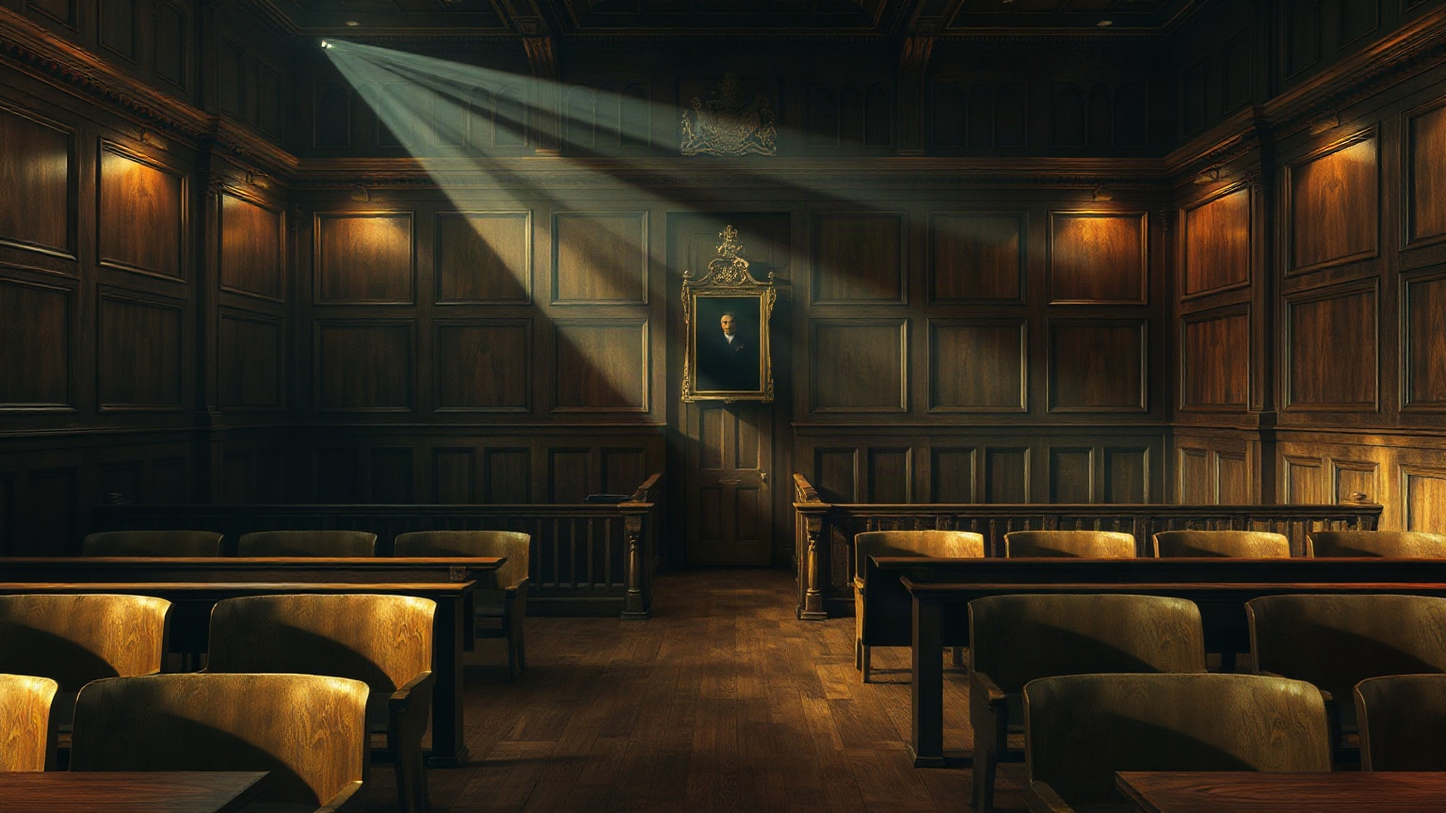
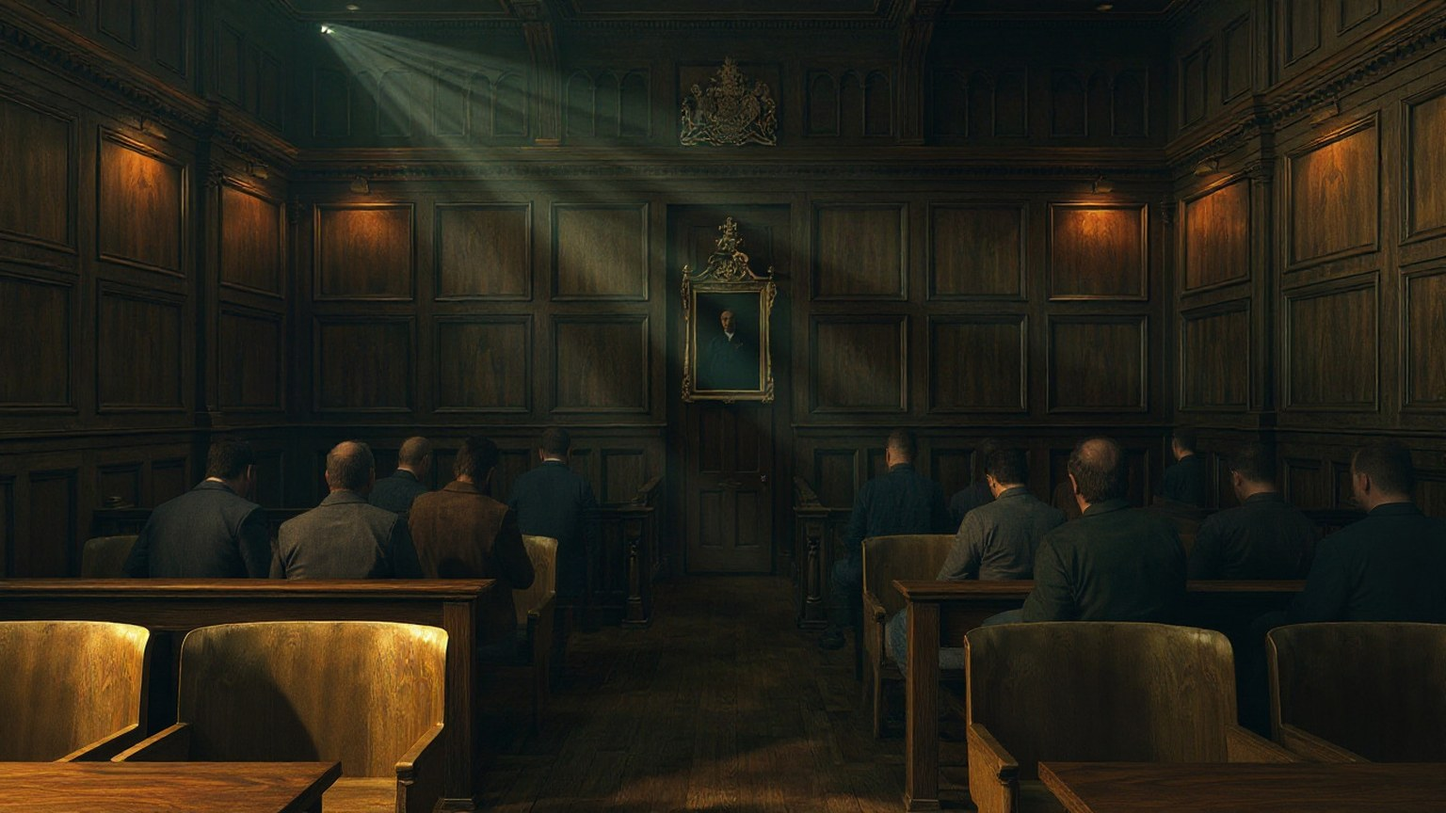
Playtest: courtroom scenes with background people, evidence pictures, multi-evidence presenting, reopenable lessons tab, apply-fix buttons

diff --git a/learn/index.html b/learn/index.html
@@ -4071,6 +4071,9 @@
     .create-issue .badge { display: inline-block; margin-right: 8px; padding: 2px 8px; border-radius: 99px; font: 800 0.65rem Arial, sans-serif; letter-spacing: 0.06em; text-transform: uppercase; border: 1px solid currentColor; }
     .create-issue .badge.blocker { background: var(--text); color: var(--panel); }
     .create-issue .fix { display: block; margin-top: 6px; opacity: 0.75; }
+    .create-issue .create-apply { margin-top: 10px; display: block; }
+    .create-issue .applied { display: block; margin-top: 8px; font: 700 0.75rem Arial, sans-serif; color: #b7e0a3; }
+    .create-apply-note { margin: 8px 0 0; font: 0.82rem Arial, sans-serif; opacity: 0.8; }
     .create-play { padding: 18px 60px; border: 2px solid var(--accent); border-radius: 14px; background: var(--text); color: var(--panel); font: 800 1.3rem Georgia, serif; cursor: pointer; box-shadow: 0 10px 28px rgba(0,0,0,0.3); }
     @media (max-width: 1100px) { .create-case-layout { grid-template-columns: 150px minmax(0, 1fr); } .create-coverage { grid-column: 1 / -1; position: static; } }
     @media (max-width: 720px) { .create-case-layout { grid-template-columns: 1fr; } .create-case-nav { position: static; flex-direction: row; overflow-x: auto; } .create-detail-panel, .create-edit-grid2 { grid-template-columns: 1fr; } .create-edit-row { grid-template-columns: 1fr 30px; } .create-edit-row input:first-child { grid-column: 1 / -1; } }
@@ -4146,6 +4149,11 @@
     .pl-ev-grid { display: grid; grid-template-columns: repeat(auto-fill, minmax(190px, 1fr)); gap: 14px; }
     .pl-ev-card { display: flex; flex-direction: column; gap: 6px; padding: 14px; border: 1px solid rgba(230,215,176,0.3); border-radius: 12px; background: rgba(230,215,176,0.06); color: inherit; text-align: left; cursor: pointer; font: inherit; }
     .pl-ev-card:hover { background: rgba(230,215,176,0.14); transform: translateY(-2px); }
+    .pl-ev-card.picked { border-color: var(--text, #E6D7B0); background: rgba(230,215,176,0.22); box-shadow: 0 0 0 2px var(--accent, #E6D7B0); }
+    .pl-ev-wrap { position: relative; display: flex; }
+    .pl-ev-wrap .pl-ev-card { flex: 1; }
+    .pl-ev-inspect { position: absolute; top: 8px; right: 8px; padding: 4px 9px; border: 1px solid rgba(230,215,176,0.4); border-radius: 999px; background: rgba(5,5,10,0.7); color: inherit; font: 700 0.62rem Arial, sans-serif; letter-spacing: 0.06em; text-transform: uppercase; cursor: pointer; }
+    .pl-ev-thumb { width: 100%; aspect-ratio: 4 / 3; object-fit: cover; border-radius: 8px; margin-bottom: 4px; }
     .pl-ev-card .k { font: 700 0.62rem Arial, sans-serif; letter-spacing: 0.14em; text-transform: uppercase; opacity: 0.6; }
     .pl-ev-card .t { font: 700 0.95rem/1.3 Georgia, serif; }
     .pl-ev-card .c { font: 0.78rem/1.4 Arial, sans-serif; opacity: 0.7; }
@@ -4178,6 +4186,14 @@
     .pl-cctv .top { position: absolute; top: 10px; left: 14px; right: 14px; display: flex; justify-content: space-between; font-size: 0.78rem; letter-spacing: 0.06em; }
     .pl-cctv .rec::before { content: '● '; color: #e04a3a; }
     .pl-cctv .desc { position: absolute; left: 14px; right: 14px; bottom: 12px; padding: 8px 10px; background: rgba(0,0,0,0.55); font-size: 0.8rem; line-height: 1.45; }
+    .pl-cctv-wrap { width: min(620px, 100%); }
+    .pl-cctv.has-img { background: #0c0e0b; }
+    .pl-cctv-img { position: absolute; inset: 0; width: 100%; height: 100%; object-fit: cover; filter: grayscale(1) contrast(1.1) brightness(0.9); }
+    .pl-cctv.has-img::before { z-index: 1; }
+    .pl-cctv.has-img .top { z-index: 2; text-shadow: 0 1px 4px #000; }
+    .pl-cctv-cap { margin: 10px 2px 0; font: 0.85rem/1.55 Arial, sans-serif; opacity: 0.75; }
+    .pl-photo-desc { margin: 8px 4px 0; font: 0.78rem/1.5 Arial, sans-serif; color: #4a4232; text-align: center; }
+    .pl-bag-img { display: block; width: 100%; aspect-ratio: 4 / 3; object-fit: cover; border-radius: 4px; margin-bottom: 12px; }
     .pl-medical { width: min(560px, 100%); padding: 26px 30px; background: #eef2f4; color: #17232b; border-radius: 3px; border-top: 8px solid #2a7f9e; box-shadow: 0 10px 40px rgba(0,0,0,0.55); font: 0.9rem/1.6 Arial, sans-serif; }
     .pl-medical h3 { margin: 0 0 12px; font: 700 1.05rem Arial, sans-serif; color: #2a7f9e; }
     .pl-polaroid { width: min(430px, 100%); padding: 14px 14px 24px; background: #f6f2ea; border-radius: 3px; transform: rotate(-1.4deg); box-shadow: 0 10px 40px rgba(0,0,0,0.6); color: #23201a; }
@@ -4219,6 +4235,8 @@
     /* Legal guidance: the LastMind lesson for a concept the case calls on, beside the scene (closable) */
     .pl-guidance { position: absolute; top: 0; right: 0; bottom: 0; z-index: 15; width: min(480px, 94vw); overflow: auto; padding: 22px 24px 40px; border-left: 1px solid rgba(230,215,176,0.35); background: rgba(var(--panel-rgb, 18, 18, 30), 0.97); box-shadow: -24px 0 70px rgba(0,0,0,0.55); animation: plSlideIn 0.35s ease both; }
     @keyframes plSlideIn { from { transform: translateX(30px); opacity: 0; } to { transform: none; opacity: 1; } }
+    .pl-guid-edge { position: absolute; right: 0; top: 42%; z-index: 14; padding: 16px 9px; writing-mode: vertical-rl; border: 1px solid rgba(230,215,176,0.5); border-right: 0; border-radius: 12px 0 0 12px; background: rgba(var(--panel-rgb, 18, 18, 30), 0.92); color: var(--text, #E6D7B0); font: 700 0.78rem Arial, sans-serif; letter-spacing: 0.12em; text-transform: uppercase; cursor: pointer; box-shadow: -6px 0 24px rgba(0,0,0,0.4); }
+    .pl-guid-edge:hover { background: rgba(230,215,176,0.22); }
     .pl-guid-head { display: flex; align-items: flex-start; justify-content: space-between; gap: 12px; margin-bottom: 14px; }
     .pl-guid-sub { margin-top: 4px; font: 0.8rem Arial, sans-serif; opacity: 0.6; }
     .pl-guid-tabs { display: flex; flex-wrap: wrap; gap: 8px; margin-bottom: 16px; }
@@ -9577,10 +9595,10 @@ SQIDAQAB
         if (createBuild) { renderCreateBuilding(body, trial, goTo, contentInner); return; }
         const detailsHtml = trial.showDetails ? `
             <div class="create-detail-panel">
-                ${CREATE_DETAIL_FIELDS.map((f) => `<div class="create-detail-field"><label for="createDetail-${f.key}">${f.label}</label><textarea id="createDetail-${f.key}" data-detail="${f.key}" rows="3" placeholder="${escapeHtml(f.placeholder)}">${escapeHtml(trial.details[f.key] || '')}</textarea></div>`).join('')}
+                ${CREATE_DETAIL_FIELDS.map((f) => `<div class="create-detail-field"><label for="createDetail-${f.key}">${f.label}</label><textarea id="createDetail-${f.key}" data-detail="${f.key}" rows="3" placeholder="${escapeHtml(trial.cortexDecides ? 'Cortex will choose this' : f.placeholder)}">${escapeHtml(trial.details[f.key] || '')}</textarea></div>`).join('')}
                 <div class="create-detail-actions">
-                    <button type="button" class="create-secondary" id="createCortexHandles">Let Cortex handle it</button>
-                    <span class="create-warn" style="margin:0;">Leave any box empty and Cortex will choose for you.</span>
+                    <button type="button" class="create-secondary" id="createCortexHandles" aria-pressed="${!!trial.cortexDecides}">${trial.cortexDecides ? '✓ Cortex will fill in anything left empty' : 'Let Cortex handle the rest'}</button>
+                    <span class="create-warn" style="margin:0;">${trial.cortexDecides ? 'Boxes you have filled in are kept exactly as written; Cortex only fills in the empty ones.' : 'Leave any box empty and Cortex will choose for you.'}</span>
                 </div>
             </div>` : '';
         body.innerHTML = `
@@ -9589,17 +9607,17 @@ SQIDAQAB
             <textarea class="create-idea" id="createIdea" rows="5" placeholder="${escapeHtml(CREATE_IDEA_PLACEHOLDER)}" aria-label="What's your idea?">${escapeHtml(trial.idea || '')}</textarea>
             <div class="create-detail-row">
                 <button type="button" class="create-secondary" id="createMoreDetail">${trial.showDetails ? '− Hide detail' : '+ Add more detail'}</button>
-                ${trial.cortexDecides ? '<span class="create-chip">Cortex will decide the details <button type="button" id="createUndoCortex">change</button></span>' : ''}
+                ${trial.cortexDecides && !trial.showDetails ? '<span class="create-chip">Cortex will fill in anything you leave empty <button type="button" id="createUndoCortex">change</button></span>' : ''}
             </div>
             ${detailsHtml}
             <div class="create-build-row"><button type="button" class="create-build-btn" id="createBuildBtn">Build my Case</button></div>
             <div id="createBuildWarn"></div>`;
         const idea = body.querySelector('#createIdea');
         idea.addEventListener('input', () => { trial.idea = idea.value; saveCreateTrial(); });
-        body.querySelector('#createMoreDetail').addEventListener('click', () => { trial.showDetails = !trial.showDetails; if (trial.showDetails) trial.cortexDecides = false; saveCreateTrial(); renderCreateDesign(body, trial, goTo, contentInner); });
+        body.querySelector('#createMoreDetail').addEventListener('click', () => { trial.showDetails = !trial.showDetails; saveCreateTrial(); renderCreateDesign(body, trial, goTo, contentInner); });
         body.querySelector('#createUndoCortex')?.addEventListener('click', () => { trial.cortexDecides = false; trial.showDetails = true; saveCreateTrial(); renderCreateDesign(body, trial, goTo, contentInner); });
         body.querySelectorAll('[data-detail]').forEach((el) => el.addEventListener('input', () => { trial.details[el.dataset.detail] = el.value; saveCreateTrial(); }));
-        body.querySelector('#createCortexHandles')?.addEventListener('click', () => { trial.cortexDecides = true; trial.showDetails = false; trial.details = {}; saveCreateTrial(); renderCreateDesign(body, trial, goTo, contentInner); });
+        body.querySelector('#createCortexHandles')?.addEventListener('click', () => { trial.cortexDecides = !trial.cortexDecides; trial.showDetails = true; saveCreateTrial(); renderCreateDesign(body, trial, goTo, contentInner); });
         body.querySelector('#createBuildBtn').addEventListener('click', () => {
             const warn = body.querySelector('#createBuildWarn');
             const missing = [];
@@ -9822,7 +9840,7 @@ SQIDAQAB
     }
 
     function startCreateValidation(body, trial) {
-        const state = { status: 'running', startedAt: Date.now(), shown: 1, completed: 0 };
+        const state = { status: 'running', startedAt: Date.now(), shown: 1, completed: 0, applied: new Set(), changes: [], stale: false };
         createValidation = state;
         const payload = { case: trial.case, role: trial.role, minutes: trial.minutes, concepts: trial.picked.map((n) => ({ label: n.label, subtopic: n.subtopic })) };
         createRunJob('/create/criminal-trial/validate', payload).then((result) => {
@@ -9871,9 +9889,35 @@ SQIDAQAB
             if (coverageEl && trial.case) coverageEl.innerHTML = createCoverageHtml(trial.case.coverage);
             tail.innerHTML = `
                 ${r.summary ? `<p class="create-error" style="max-width:none;">${escapeHtml(r.summary)}</p>` : ''}
-                ${(r.issues || []).map((i) => `<div class="create-issue"><span class="badge ${i.severity}">${i.severity === 'blocker' ? 'Must fix' : 'Suggestion'}</span><b>${escapeHtml(i.area)}</b> - ${escapeHtml(i.message)}${i.suggestion ? `<span class="fix">${escapeHtml(i.suggestion)}</span>` : ''}</div>`).join('')}
-                ${r.workable ? '<div class="create-ready-actions" style="margin-top:18px;"><button type="button" class="create-play" id="createPlayBtn">Play</button></div>' : '<p class="create-error" style="max-width:none;">Fix the items marked "Must fix", then press Validate again.</p>'}`;
+                ${(r.issues || []).map((i, idx) => `<div class="create-issue"><span class="badge ${i.severity}">${i.severity === 'blocker' ? 'Must fix' : 'Suggestion'}</span><b>${escapeHtml(i.area)}</b> - ${escapeHtml(i.message)}${i.suggestion ? `<span class="fix">${escapeHtml(i.suggestion)}</span>` : ''}${state.applied.has(idx) ? '<span class="applied">✓ Applied</span>' : `<button type="button" class="create-secondary create-apply" data-apply="${idx}">Apply this fix</button>`}</div>`).join('')}
+                ${(r.issues || []).filter((i, idx) => !state.applied.has(idx)).length > 1 ? '<div class="create-ready-actions" style="margin:6px 0 4px;"><button type="button" class="create-cta" id="createApplyAll" style="padding:10px 22px;font-size:0.9rem;">Apply all fixes</button></div>' : ''}
+                ${state.changes.length ? `<div class="create-issue"><b>Changes made</b><ul style="margin:6px 0 0 18px;padding:0;">${state.changes.map((c) => `<li>${escapeHtml(c)}</li>`).join('')}</ul></div>` : ''}
+                <p class="create-apply-note" id="createApplyNote"></p>
+                ${state.stale ? '<p class="create-error" style="max-width:none;">You have changed the case with these fixes, so press Validate again to make sure it now works before you play.</p>' : (r.workable ? '<div class="create-ready-actions" style="margin-top:18px;"><button type="button" class="create-play" id="createPlayBtn">Play</button></div>' : '<p class="create-error" style="max-width:none;">Fix the items marked "Must fix", then press Validate again.</p>')}`;
             tail.querySelector('#createPlayBtn')?.addEventListener('click', () => ptStart(trial));
+            const applyFixes = async (indexes) => {
+                const note = tail.querySelector('#createApplyNote');
+                tail.querySelectorAll('.create-apply, #createApplyAll').forEach((b) => { b.disabled = true; });
+                note.textContent = 'Cortex is applying the fix…';
+                try {
+                    const result = await createRunJob('/create/criminal-trial/apply-fixes', {
+                        case: trial.case, role: trial.role, minutes: trial.minutes,
+                        concepts: trial.picked.map((n) => ({ label: n.label, subtopic: n.subtopic })),
+                        issues: indexes.map((i) => r.issues[i]),
+                    });
+                    Object.entries(result.sections || {}).forEach(([key, value]) => { trial.case[key] = value; });
+                    indexes.forEach((i) => state.applied.add(i));
+                    (result.changes || []).forEach((c) => state.changes.push(c));
+                    state.stale = true;
+                    saveCreateTrial();
+                    renderCreateTrialBuilder(document.getElementById('contentInner'));
+                } catch (err) {
+                    note.textContent = err.message || 'Cortex could not apply that fix.';
+                    tail.querySelectorAll('.create-apply, #createApplyAll').forEach((b) => { b.disabled = false; });
+                }
+            };
+            tail.querySelectorAll('[data-apply]').forEach((b) => b.addEventListener('click', () => applyFixes([Number(b.dataset.apply)])));
+            tail.querySelector('#createApplyAll')?.addEventListener('click', () => applyFixes((r.issues || []).map((i, idx) => idx).filter((idx) => !state.applied.has(idx))));
         };
         paint();
         const timer = setInterval(() => {
@@ -10041,6 +10085,7 @@ SQIDAQAB
     const PT_SCENE = (key) => `/assets/playtest/${key}.jpg`;
     const PT_SCENES = ['chambers', 'interview', 'arrival', 'courtroom_wide', 'prosecution_opening', 'witness_box', 'defence_case', 'closing_speech', 'summing_up', 'jury_deliberation', 'verdict', 'sentencing'];
     const PT_MAX_QUESTIONS = { interview: 15, exam: 10 };
+    const PT_PORTRAIT_VERSION = 2; // 2 = pictures checked to face the camera; older ones are regenerated
     const PT_GRAPH_VERSION = 2; // bump when the Case Graph gains fields the courtroom relies on
     const PT_LESSON_HINT = 'This is the lesson from your LastMind knowledge map, opened to help you. Nothing here is tested or recorded.';
     const PT_COMPILE_STEPS = ['Establishing the facts', 'Briefing the witnesses', 'Preparing the exhibits', 'Drafting the court scripts', 'Setting the verdict rules'];
@@ -10124,7 +10169,7 @@ SQIDAQAB
         if (!ch || !a || !ch.portrait || !ch.portraitTransparent) return false;
         pt.cast = { id: ch.id, scene: key };
         layer.innerHTML = `<img class="pl-fig${a.slow ? ' slow' : ''}${a.fade ? ' fade' : ''}" src="${ch.portrait}" alt="${ptE(ch.name)}" style="left:${a.x}%;top:${a.top}%;height:${a.h}%;filter:${a.filter}">${a.floor ? `<div class="pl-fg" style="background-image:url(${PT_SCENE(key)});clip-path:inset(${a.floor}% 0 0 0)"></div>` : ''}`;
-        requestAnimationFrame(() => { const f = layer.querySelector('.pl-fig'); if (f) f.classList.add('on'); });
+        setTimeout(() => { const f = layer.querySelector('.pl-fig'); if (f) f.classList.add('on'); }, 40);
         return true;
     }
     // The judge is a character too: one generated figure, kept with the graph like everyone else.
@@ -10156,6 +10201,24 @@ SQIDAQAB
             img.onerror = () => resolve(dataUrl);
             img.src = dataUrl;
         });
+    }
+    // Pictures for visual evidence (CCTV, photographs, physical exhibits), made once from what the exhibit is described as
+    // showing and kept with the case. They are checked on the server against that description.
+    async function ptLoadEvidenceImages(token) {
+        const targets = pt.graph.evidence.filter((e) => ['cctv', 'photo', 'physical'].includes(e.kind) && !e.image);
+        for (const ev of targets) {
+            if (!pt || pt.token !== token || createBudgetLeft() < 0.06) return;
+            const c = ev.content || {};
+            const description = ev.kind === 'physical' ? `${c.item || ev.title}. ${c.description || ev.caption}` : `${c.location || ''}. ${c.description || ev.caption}`;
+            try {
+                const { resp, body } = await createAuthedFetch('/playtest/evidence-image', { method: 'POST', body: JSON.stringify({ kind: ev.kind, description, clientUsedUsd: createSpend.usedUsd }) });
+                if (resp.status === 501) return;
+                if (body.spend) createNoteSpend(body.spend);
+                if (!(resp.ok && body.image) || !pt || pt.token !== token) continue;
+                ev.image = await ptShrink(body.image, 720);
+                createStoreGraphCache();
+            } catch (err) { console.error('LastMind: an evidence picture could not be generated.', err); }
+        }
     }
     async function ptLoadPortraits(token) {
         const targets = ptPortraitTargets();
@@ -10194,7 +10257,7 @@ SQIDAQAB
         root.innerHTML = `
             <div class="pl-frame" id="plFrame"><div class="pl-bg" id="plBgA"></div><div class="pl-bg" id="plBgB"></div><div class="pl-cast" id="plCast"></div></div><div class="pl-shade" id="plShade"></div>
             <div class="pl-hud" id="plHud"><button type="button" id="plLeave">✕ Leave</button><span class="pl-stage-label" id="plStageLabel"></span><span style="display:flex;gap:8px;align-items:center;"><span id="plToolPills" style="display:none;gap:8px;"><button type="button" data-tool="casefile">Case file</button><button type="button" data-tool="evidence">Evidence</button><button type="button" data-tool="notes">Notes</button><button type="button" id="plGuidancePill" data-tool="guidance" style="display:none;">Guidance</button></span><span class="pl-spend" id="plSpend"></span></span></div>
-            <div class="pl-stage" id="plStage"></div><div id="plOverlayHost"></div>`;
+            <div class="pl-stage" id="plStage"></div><div id="plOverlayHost"></div><button type="button" id="plGuidTab" class="pl-guid-edge" data-tool="guidance" style="display:none;" aria-label="Open the lessons panel">Lessons</button>`;
         document.body.appendChild(root);
         document.body.classList.add('pl-open');
         ptBgFront = 'A';
@@ -10218,6 +10281,7 @@ SQIDAQAB
         const host = document.getElementById('plOverlayHost');
         if (host && host.lastElementChild) { host.lastElementChild.remove(); return; }
         document.getElementById('plGuidance')?.remove();
+        ptUpdateGuidancePill();
     }
     function ptUnmount() {
         document.getElementById('ptRoot')?.remove();
@@ -10251,6 +10315,7 @@ SQIDAQAB
         if (hud) hud.style.display = on ? '' : 'none';
         const pills = document.getElementById('plToolPills');
         if (pills) pills.style.display = tools === false ? 'none' : 'flex';
+        if (pt) { pt.hudOn = !!on; if (pt.triggered) ptUpdateGuidancePill(); }
     };
     function ptStage(html, cls) {
         const el = document.getElementById('plStage');
@@ -10348,7 +10413,15 @@ SQIDAQAB
         } else if (saved) { try { localStorage.removeItem(`lastmind-playtest:${hash}`); } catch (err) { /* fine */ } }
         // A restored (or saved) case needs a live session on the server so Cortex reads the same immutable graph.
         if (!pt.sessionId) { try { await ptRestoreSession(); } catch (err) { console.error('LastMind: could not start the playtest session.', err); } }
+        // Portraits made before the front-facing check are regenerated once; then evidence pictures are made for anything visual.
+        if (graph.characters.some((c) => c.portrait) && (graph.meta.portraitVersion || 1) < PT_PORTRAIT_VERSION) {
+            graph.characters.forEach((c) => { delete c.portrait; delete c.portraitTransparent; });
+            delete graph.meta.judgePortrait; delete graph.meta.judgePortraitTransparent;
+        }
+        graph.meta.portraitVersion = PT_PORTRAIT_VERSION;
+        createStoreGraphCache();
         ptLoadPortraits(pt.token);
+        ptLoadEvidenceImages(pt.token);
         ptRender();
     }
     async function ptRestoreSession() {
@@ -10596,7 +10669,7 @@ SQIDAQAB
     // guard on the server decides which facts a reply may reveal.
     function ptExam(o) {
         const ch = o.ch;
-        let busy = false; let pending = null; let draft = ''; let judgeNote = ''; let errorText = '';
+        let busy = false; let pending = []; let draft = ''; let judgeNote = ''; let errorText = '';
         const asked = () => o.hist.filter((h) => h.from === 'me').length;
         const draw = () => {
             const lastThem = [...o.hist].reverse().find((h) => h.from === 'them');
@@ -10605,7 +10678,7 @@ SQIDAQAB
                 <div class="pl-speaker">${ptE(ch.name)}<small>${ptE(ch.role)}</small></div>
                 <p class="pl-text" id="plReply">${ptE(lastThem ? lastThem.text : o.intro)}</p>
                 ${judgeNote ? `<p class="pl-note">${ptE(judgeNote)}</p>` : ''}${errorText ? `<p class="pl-note">${ptE(errorText)}</p>` : ''}
-                ${pending ? `<span class="pl-chip">Presenting: ${ptE(ptEv(pending).title)} <button type="button" id="plUnpresent" aria-label="Stop presenting">✕</button></span>` : ''}
+                ${pending.length ? `<div>${pending.map((id) => `<span class="pl-chip" style="margin-right:8px;">Presenting: ${ptE(ptEv(id).title)} <button type="button" data-unpresent="${ptE(id)}" aria-label="Stop presenting this">✕</button></span>`).join('')}</div>` : ''}
                 ${capped ? `<p class="pl-note">${ptE(o.capNote)}</p>` : `<div class="pl-ask"><textarea id="plQ" rows="2" placeholder="${ptE(o.placeholder)}"></textarea><button type="button" class="pl-btn primary" id="plAsk">Ask</button></div>`}
                 <div class="pl-actions"><button type="button" class="pl-btn" id="plPresent">Present evidence</button><button type="button" class="pl-btn" id="plTranscript">Transcript</button><span class="pl-spacer"></span><button type="button" class="pl-btn${capped ? ' primary' : ''}" id="plFinish">${ptE(o.finishLabel)} ▸</button></div></div>`);
             const ta = stage.querySelector('#plQ');
@@ -10615,15 +10688,15 @@ SQIDAQAB
                 ta.addEventListener('keydown', (event) => { if (event.key === 'Enter' && !event.shiftKey) { event.preventDefault(); ask(); } });
                 stage.querySelector('#plAsk').addEventListener('click', ask);
             }
-            stage.querySelector('#plUnpresent')?.addEventListener('click', () => { pending = null; draw(); });
-            stage.querySelector('#plPresent').addEventListener('click', () => ptShowEvidence({ chName: ch.name, onPresent: (id) => { pending = id; draw(); } }));
+            stage.querySelectorAll('[data-unpresent]').forEach((b) => b.addEventListener('click', () => { pending = pending.filter((id) => id !== b.dataset.unpresent); draw(); }));
+            stage.querySelector('#plPresent').addEventListener('click', () => ptShowEvidence({ chName: ch.name, selected: pending.slice(), onPresent: (ids) => { pending = ids; draw(); } }));
             stage.querySelector('#plTranscript').addEventListener('click', () => ptShowLog(ch, o.hist));
             stage.querySelector('#plFinish').addEventListener('click', () => { ptSave(); o.onFinish(); });
         };
         const ask = async () => {
             if (busy) return;
             let q = draft.trim();
-            if (!q && pending) q = 'Could you look at this, please?';
+            if (!q && pending.length) q = pending.length > 1 ? 'Could you look at these, please?' : 'Could you look at this, please?';
             if (!q) return;
             busy = true; errorText = ''; judgeNote = '';
             const replyEl = document.getElementById('plReply');
@@ -10631,14 +10704,15 @@ SQIDAQAB
             const askBtn = document.getElementById('plAsk'); if (askBtn) askBtn.disabled = true;
             try {
                 const shownIds = o.shown();
-                const r = await ptCharacterTurn({ ch, message: q, setting: o.setting, asking: o.asking, evId: pending, hist: o.hist, shownIds });
-                o.hist.push({ from: 'me', text: q, ev: pending });
+                const evIds = pending.slice();
+                const r = await ptCharacterTurn({ ch, message: q, setting: o.setting, asking: o.asking, evIds, hist: o.hist, shownIds });
+                o.hist.push({ from: 'me', text: q, ev: evIds });
                 o.hist.push({ from: 'them', text: r.reply });
-                pt.exchanges.push({ character: ch.name, question: q, evidence: pending ? ptEv(pending).title : '' });
-                if (pending) o.markShown(pending);
+                pt.exchanges.push({ character: ch.name, question: q, evidence: evIds.map((id) => ptEv(id).title).join(' + ') });
+                evIds.forEach((id) => o.markShown(id));
                 if (o.establish) ptEstablish(r.revealedFactIds);
                 judgeNote = r.judgeNote || '';
-                pending = null; draft = '';
+                pending = []; draft = '';
                 ptSave();
             } catch (err) {
                 errorText = err.code === 'CREATE_SPEND_CAP'
@@ -10650,9 +10724,9 @@ SQIDAQAB
         };
         draw();
     }
-    async function ptCharacterTurn({ ch, message, setting, asking, evId, hist, shownIds }) {
+    async function ptCharacterTurn({ ch, message, setting, asking, evIds, hist, shownIds }) {
         const send = () => createAuthedFetch('/playtest/character-turn', { method: 'POST', body: JSON.stringify({
-            sessionId: pt.sessionId, characterId: ch.id, message, setting, asking, presentedEvidenceId: evId || undefined, presentedEvidenceIds: shownIds,
+            sessionId: pt.sessionId, characterId: ch.id, message, setting, asking, presentedEvidenceIdsNow: evIds && evIds.length ? evIds : undefined, presentedEvidenceIds: shownIds,
             history: hist.slice(-10).map((h) => ({ from: h.from, text: h.text })), clientUsedUsd: createSpend.usedUsd,
         }) });
         let { resp, body } = await send();
@@ -10685,9 +10759,14 @@ SQIDAQAB
             return at.stage === stage;
         });
     }
+    // Once the case has called on any concept, its lessons can always be reopened: from the Guidance button up top and from a
+    // tab on the right edge whenever the panel is closed.
     function ptUpdateGuidancePill() {
+        const has = !!(pt && pt.triggered && pt.triggered.length);
         const b = document.getElementById('plGuidancePill');
-        if (b) b.style.display = pt && pt.triggered.length ? '' : 'none';
+        if (b) b.style.display = has ? '' : 'none';
+        const tab = document.getElementById('plGuidTab');
+        if (tab) tab.style.display = has && pt.hudOn !== false && !document.getElementById('plGuidance') ? '' : 'none';
     }
     function ptCallUpon(concepts) {
         const fresh = concepts.filter((c) => !pt.triggered.includes(c.label));
@@ -10720,7 +10799,8 @@ SQIDAQAB
         panel.setAttribute('aria-label', 'Legal guidance');
         panel.innerHTML = `<div class="pl-guid-head"><div><div class="pl-eyebrow">Legal guidance</div><div class="pl-guid-sub">From your LastMind lessons</div></div><button type="button" class="pl-btn" id="plGuidClose">Close ✕</button></div><div class="pl-guid-tabs" id="plGuidTabs"></div><div class="pl-guid-body" id="plGuidBody"></div>`;
         document.getElementById('ptRoot').appendChild(panel);
-        panel.querySelector('#plGuidClose').addEventListener('click', () => panel.remove());
+        panel.querySelector('#plGuidClose').addEventListener('click', () => { panel.remove(); ptUpdateGuidancePill(); });
+        ptUpdateGuidancePill();
         const tabs = panel.querySelector('#plGuidTabs');
         const body = panel.querySelector('#plGuidBody');
         let current = labels.includes(activeLabel) ? activeLabel : labels[labels.length - 1];
@@ -10754,10 +10834,29 @@ SQIDAQAB
         wrap.querySelectorAll('[data-ev]').forEach((b) => b.addEventListener('click', () => ptInspect(b.dataset.ev)));
     }
     function ptShowEvidence(ctx) {
+        const present = !!(ctx && ctx.onPresent);
+        const selected = new Set(present && ctx.selected ? ctx.selected : []);
+        const card = (e) => `<div class="pl-ev-wrap"><button type="button" class="pl-ev-card${present && selected.has(e.id) ? ' picked' : ''}" data-ev="${ptE(e.id)}"${present ? ` aria-pressed="${selected.has(e.id)}"` : ''}>${e.image ? `<img class="pl-ev-thumb" src="${e.image}" alt="">` : ''}<span class="k">${ptE(e.kind)}</span><span class="t">${ptE(e.title)}</span><span class="c">${ptE(e.caption)}</span>${pt.inCourt.includes(e.id) ? '<span class="in">In evidence</span>' : ''}${present && selected.has(e.id) ? '<span class="in" style="color:#f3e7c4;">✓ Selected</span>' : ''}</button>${present ? `<button type="button" class="pl-ev-inspect" data-inspect="${ptE(e.id)}">Inspect</button>` : ''}</div>`;
         const wrap = ptOverlay(`
-            <div class="pl-panel-head"><h2>${ctx ? `Present evidence to ${ptE(ctx.chName)}` : 'Evidence'}</h2>${ptCloseBtn}</div>
-            <div class="pl-ev-grid">${pt.graph.evidence.map((e) => `<button type="button" class="pl-ev-card" data-ev="${ptE(e.id)}"><span class="k">${ptE(e.kind)}</span><span class="t">${ptE(e.title)}</span><span class="c">${ptE(e.caption)}</span>${pt.inCourt.includes(e.id) ? '<span class="in">In evidence</span>' : ''}</button>`).join('')}</div>`);
-        wrap.querySelectorAll('[data-ev]').forEach((b) => b.addEventListener('click', () => ptInspect(b.dataset.ev, ctx ? { ...ctx, close: () => wrap.remove() } : null)));
+            <div class="pl-panel-head"><h2>${present ? `Present evidence to ${ptE(ctx.chName)}` : 'Evidence'}</h2><span style="display:flex;gap:10px;align-items:center;">${present ? '<button type="button" class="pl-btn primary" id="plPresentSel" disabled>Present ▸</button>' : ''}${ptCloseBtn}</span></div>
+            ${present ? '<p class="pl-p" style="opacity:0.7;font-size:0.9rem;">Choose one or more items to put to the witness together.</p>' : ''}
+            <div class="pl-ev-grid" id="plEvGrid">${pt.graph.evidence.map(card).join('')}</div>`);
+        const btn = wrap.querySelector('#plPresentSel');
+        const refresh = () => { if (btn) { btn.disabled = !selected.size; btn.textContent = selected.size > 1 ? `Present ${selected.size} items ▸` : 'Present ▸'; } };
+        refresh();
+        wrap.querySelectorAll('.pl-ev-card').forEach((b) => b.addEventListener('click', () => {
+            const id = b.dataset.ev;
+            if (!present) { ptInspect(id); return; }
+            if (selected.has(id)) selected.delete(id); else selected.add(id);
+            b.classList.toggle('picked', selected.has(id));
+            b.setAttribute('aria-pressed', String(selected.has(id)));
+            const mark = b.querySelector('.in[data-sel]');
+            b.querySelectorAll('.in').forEach((n) => { if (n.textContent.includes('Selected')) n.remove(); });
+            if (selected.has(id)) b.insertAdjacentHTML('beforeend', '<span class="in" style="color:#f3e7c4;">✓ Selected</span>');
+            refresh();
+        }));
+        wrap.querySelectorAll('[data-inspect]').forEach((b) => b.addEventListener('click', () => ptInspect(b.dataset.inspect)));
+        btn?.addEventListener('click', () => { const ids = [...selected]; wrap.remove(); ctx.onPresent(ids); });
     }
     function ptInspect(id, ctx) {
         const ev = ptEv(id);
@@ -10777,7 +10876,7 @@ SQIDAQAB
         ta.focus();
     }
     function ptShowLog(ch, hist) {
-        ptOverlay(`<div class="pl-panel-head"><h2>Transcript: ${ptE(ch.name)}</h2>${ptCloseBtn}</div><div class="pl-log">${hist.length ? hist.map((h) => `<div class="${h.from === 'me' ? 'me' : ''}"><b>${h.from === 'me' ? 'You' : ptE(ch.name)}${h.ev ? ` · presenting ${ptE(ptEv(h.ev).title)}` : ''}</b>${ptE(h.text)}</div>`).join('') : '<div>Nothing has been said yet.</div>'}</div>`);
+        ptOverlay(`<div class="pl-panel-head"><h2>Transcript: ${ptE(ch.name)}</h2>${ptCloseBtn}</div><div class="pl-log">${hist.length ? hist.map((h) => `<div class="${h.from === 'me' ? 'me' : ''}"><b>${h.from === 'me' ? 'You' : ptE(ch.name)}${h.ev && [].concat(h.ev).length ? ` · presenting ${[].concat(h.ev).map((id) => ptE((ptEv(id) || {}).title || '')).join(' + ')}` : ''}</b>${ptE(h.text)}</div>`).join('') : '<div>Nothing has been said yet.</div>'}</div>`);
     }
     // What the court has heard so far - the facts the jury has, in plain words, for writing a speech from.
     function ptShowHeard() {
@@ -10795,11 +10894,14 @@ SQIDAQAB
             const first = msgs[0] ? msgs[0].from : '';
             return `<div class="pl-phone"><div class="bar">${ptE((c.participants || []).join(' & ') || ev.title)}</div>${msgs.map((m) => `<div class="pl-bubble ${m.from === first ? 'them' : 'us'}">${ptE(m.text)}<small>${ptE(m.from || '')}${m.time ? ` · ${ptE(m.time)}` : ''}</small></div>`).join('')}</div>`;
         }
-        if (ev.kind === 'cctv') return `<div class="pl-cctv"><div class="top"><span class="rec">REC ${ptE(c.location || '')}</span><span>${ptE(c.timestamp || '')}</span></div><div class="desc">${ptE(c.description || ev.caption)}</div></div>`;
+        if (ev.kind === 'cctv') {
+            if (ev.image) return `<div class="pl-cctv-wrap"><div class="pl-cctv has-img"><img class="pl-cctv-img" src="${ev.image}" alt="CCTV still"><div class="top"><span class="rec">REC ${ptE(c.location || '')}</span><span>${ptE(c.timestamp || '')}</span></div></div><p class="pl-cctv-cap">${ptE(c.description || ev.caption)}</p></div>`;
+            return `<div class="pl-cctv"><div class="top"><span class="rec">REC ${ptE(c.location || '')}</span><span>${ptE(c.timestamp || '')}</span></div><div class="desc">${ptE(c.description || ev.caption)}</div></div>`;
+        }
         if (ev.kind === 'medical') return `<div class="pl-medical"><h3>${ptE(ev.title)}</h3><div class="meta" style="margin-bottom:10px;">${ptE(c.patient || '')}${c.author ? ` · ${ptE(c.author)}` : ''}${c.date ? ` · ${ptE(c.date)}` : ''}</div>${(Array.isArray(c.sections) ? c.sections : []).map((s) => `<div class="sec">${ptE(s.heading || '')}</div><p>${ptE(s.text || '')}</p>`).join('') || paras(c.text)}</div>`;
-        if (ev.kind === 'photo') return `<div class="pl-polaroid"><div class="pic">${ptE(c.description || ev.caption)}</div><div class="cap">${ptE(c.location || ev.title)}</div></div>`;
+        if (ev.kind === 'photo') return `<div class="pl-polaroid"><div class="pic"${ev.image ? ` style="background-image:url(${ev.image});background-size:cover;background-position:center;"` : ''}>${ev.image ? '' : ptE(c.description || ev.caption)}</div><div class="cap">${ptE(c.location || ev.title)}</div>${ev.image ? `<p class="pl-photo-desc">${ptE(c.description || ev.caption)}</p>` : ''}</div>`;
         if (ev.kind === 'map') return `<div class="pl-map"><h3>${ptE(c.title || ev.title)}</h3><div class="rooms">${(Array.isArray(c.areas) ? c.areas : []).map((a) => `<div class="room"><b>${ptE(a.label || '')}</b>${ptE(a.note || '')}</div>`).join('')}</div></div>`;
-        if (ev.kind === 'physical') return `<div class="pl-bag"><span class="tag">EXHIBIT ${ptE(c.label || ev.name)}</span><div><b>${ptE(c.item || ev.title)}</b></div><div>${ptE(c.description || ev.caption)}</div></div>`;
+        if (ev.kind === 'physical') return `<div class="pl-bag"><span class="tag">EXHIBIT ${ptE(c.label || ev.name)}</span>${ev.image ? `<img class="pl-bag-img" src="${ev.image}" alt="${ptE(c.item || ev.title)}">` : ''}<div><b>${ptE(c.item || ev.title)}</b></div><div>${ptE(c.description || ev.caption)}</div></div>`;
         return `<div class="pl-paper"><h3>Document</h3><div class="sub">${ptE(c.title || ev.title)}</div>${paras(c.paragraphs || c.text) || `<p>${ptE(ev.caption)}</p>`}</div>`;
     }
 
